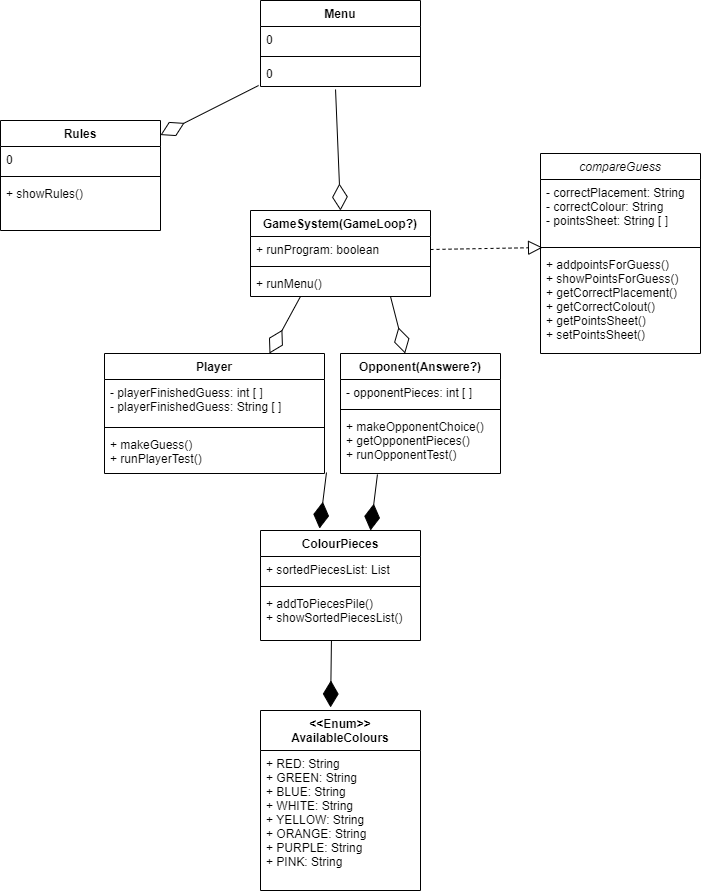
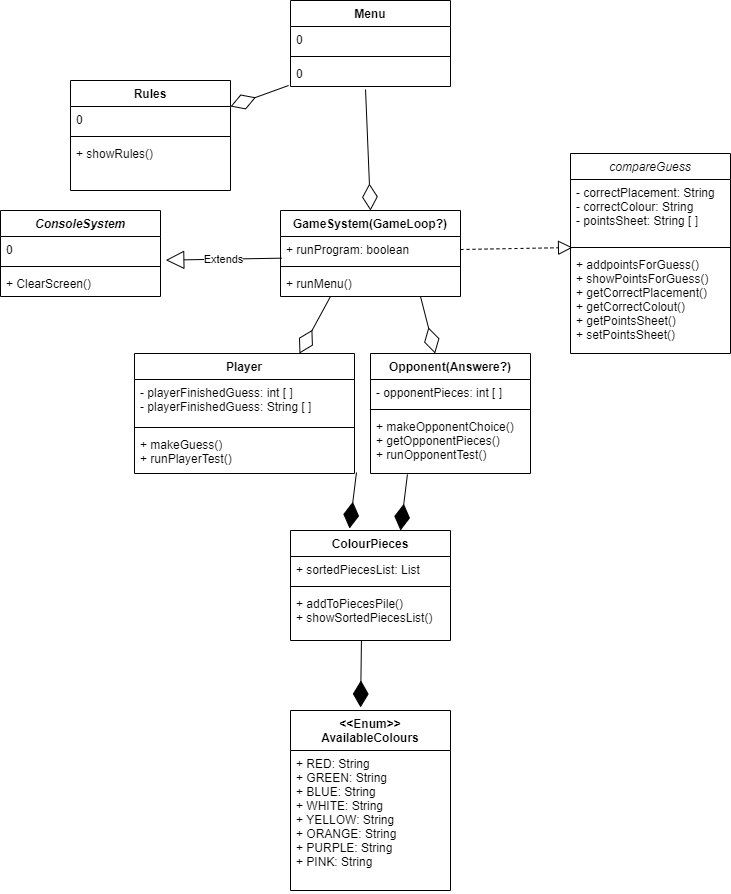
Done - V1.5
- Update UML next

diff --git a/src/mastermind/game/GameplayLoop.java b/src/mastermind/game/GameplayLoop.java
@@ -2,7 +2,7 @@ package mastermind.game;
 import java.util.LinkedList;
 import java.util.Scanner;
 
-public class GameplayLoop
+public class GameplayLoop extends ConsoleSystem
 {
     int roundCounter = 1;
     LinkedList<String> previousGuess = new LinkedList<>();
@@ -18,22 +18,21 @@ public class GameplayLoop
 
         while (compareGuess.runGameplay)
         {
-            System.out.println("----------------------------------------------------------------------------");
+            System.out.println("\n----------------------------------------------------------------------------");
             if (roundCounter > 1)
             {
-                System.out.println("\n                                Previous guesses");
+                System.out.println("\t\t\t\t\t\t\t\tMastermind board");
                 for (int i = 0; i<previousGuess.size(); i++)
                 {
-                    String result = String.format("%s\t|\t\t%s\t\t\t|\t%s","Result for round " + (i+1),previousGuess.get(i),previousPoints.get(i));
+                    String result = String.format("%s\t \t%s\t%s\t%s","Result for round " + (i+1),previousGuess.get(i),"",previousPoints.get(i));
                     System.out.println(result);
                 }
-                System.out.println("\n");
             }
             else
             {
-                System.out.println("No guesses yet - make your first guess!");
+                System.out.println("\t\t\t\t\t\t\t\tMastermind board");
             }
-            System.out.println("----------------------------------------------------------------------------");
+            System.out.println("----------------------------------------------------------------------------\n");
             System.out.println("Round " + roundCounter);
             player.makeGuess();
             player.ContinueWithGuess();
@@ -51,9 +50,9 @@ public class GameplayLoop
                         compareGuess.getPlayerSheetCopy().addLast(player.getCreatedPlayerGuess()[i]);
                     }
                     compareGuess.addPointsForGuess();
-                    compareGuess.showPointsForGuess();
-                    previousGuess.addLast(player.colourPieces.piecesPile.get(player.getCreatedPlayerGuess()[0]) + "," + player.colourPieces.piecesPile.get(player.getCreatedPlayerGuess()[1]) + "," + player.colourPieces.piecesPile.get(player.getCreatedPlayerGuess()[2]) + ","  + player.colourPieces.piecesPile.get(player.getCreatedPlayerGuess()[3]));
+                    previousGuess.addLast(player.colourPieces.boardPiecesPile.get(player.getCreatedPlayerGuess()[0]) + "," + player.colourPieces.boardPiecesPile.get(player.getCreatedPlayerGuess()[1]) + "," + player.colourPieces.boardPiecesPile.get(player.getCreatedPlayerGuess()[2]) + ","  + player.colourPieces.boardPiecesPile.get(player.getCreatedPlayerGuess()[3]));
                     previousPoints.addLast(compareGuess.getPointsSheet().toString());
+                    clearScreen();
                     thisRound = false;
 
                 } else if (makeThisGuess == 2)
@@ -79,7 +78,9 @@ public class GameplayLoop
                 }
                 compareGuess.getPointsSheet().clear();
             }
-                System.out.println("You won! It took you " + roundCounter + " rounds!");
+        System.out.println("---------------------------------------------\n");
+        System.out.println("YOU WON! It took you " + roundCounter + " rounds!");
+        System.out.println("\n---------------------------------------------");
 
         }
 

diff --git a/src/mastermind/game/Rules.java b/src/mastermind/game/Rules.java
@@ -9,15 +9,16 @@ public class Rules
     public void showTheRules()
     {
         System.out.println("\n");
-        System.out.println("-----Rules-----");
+        System.out.println("--------------------------------------------------Rules-------------------------------------------------");
         System.out.println("1. The Opponent will choose four colours from the pile and place them in their \"nest\"");
         System.out.println("2. The Opponent can choose the same colour more than once!");
-        System.out.println("3. For every round, the Player will make a guess containing four colours in the order that the Player thinks the Opponent has put them in their nest");
+        System.out.println("3. For every round, the Player will make a guess containing four colours in the order that the Player\n   thinks the Opponent has put them in their nest");
         System.out.println("4. After making the guess, the Player will receive feedback based on colour and placement of their guess");
-        System.out.println("5. The - symbol means that one of the pieces is of the right colour but placed in the wrong spot");
-        System.out.println("   The = symbol means that one of the pieces is of the right colour and placed in the right spot");
-        System.out.println("6. Based on  this information, the Player will make a new guess until the guess matches the Opponents nest");
-        System.out.println("7. The game will end and the Player is given a score of how many rounds it took to complete the game");
+        System.out.println("5. This feedback can be seen in the Mastermind board window");
+        System.out.println("6. The I symbol means that one of the pieces is of the right colour but placed in the wrong spot");
+        System.out.println("   The X symbol means that one of the pieces is of the right colour and placed in the right spot");
+        System.out.println("7. Based on  this information, the Player will make a new guess until the guess matches the Opponents nest");
+        System.out.println("8. The game will end and the Player is given a score of how many rounds it took to complete the game");
         System.out.println("\n");
         System.out.println("To exit the Rules menu - type EXIT");
     }

diff --git a/src/mastermind/game/Player.java b/src/mastermind/game/Player.java
@@ -12,16 +12,17 @@ public class Player
     public void makeGuess()
     {
         colourPieces.addToPiecesPile();
+        colourPieces.fixCleanBoardList();
         colourPieces.showSortedPiecesList();
         for (int i = 0; i < createdPlayerGuess.length; i++)
         {
-            String result = String.format("%s %s\t\t%s","Take a guess att nr",(i + 1)," | ");
+            String result = String.format("%s %s\t\t\t%s","Take a guess att nr",(i + 1)," | ");
             System.out.print(result);
             for (int j = 0; j<createdPlayerGuess.length; j++)
                 if (createdPlayerGuess[j] == 0)
                 {
 
-                    System.out.print("X");
+                    System.out.print("-");
                     System.out.print(" | ");
                 } else
                 {
@@ -36,13 +37,13 @@ public class Player
 
     public void ContinueWithGuess()
     {
-        System.out.println("\n");
+        System.out.print("Make this guess? 1: YES 2: NO\t |");
         for (int j = 0; j<createdPlayerGuess.length; j++)
         {
             System.out.print(colourPieces.piecesPile.get(createdPlayerGuess[j]));
             System.out.print(" | ");
         }
-        System.out.println("\nAre you sure this is your next guess? | 1: YES | 2: NO |");
+
     }
 
     public int[] getCreatedPlayerGuess()

diff --git a/src/mastermind/game/CompareGuess.java b/src/mastermind/game/CompareGuess.java
@@ -3,11 +3,8 @@ import java.util.LinkedList;
 
 public class CompareGuess
 {
-
-    //Point system rules
-    //From the user input, a point system is used (Correct Colour or Correct Placement)
-    private String correctColour = " - ";
-    private String correctPlacement = " = ";
+    private String correctColour = "I";
+    private String correctPlacement = "X";
     boolean runGameplay = true;
     private LinkedList<String> pointsSheet = new LinkedList<>();
     private LinkedList<Integer> opponentSheetCopy = new LinkedList<>();
@@ -52,21 +49,6 @@ public class CompareGuess
                     }
                 }
             }
-        }
-    }
-
-    //Scrambles the points in the pointsSheet and shows it to the player
-    public void showPointsForGuess()
-    {
-        /*
-        System.out.println("Opponent: " + opponentSheetCopy.toString());
-        System.out.println("Player: " + playerSheetCopy.toString());
-        System.out.println("Points: " + pointsSheet.toString());*/
-        System.out.println("This gives you following result: " + pointsSheet.toString());
-        System.out.println("\n");
-        if (opponentSheetCopy.equals(playerSheetCopy))
-        {
-            runGameplay = false;
         }
     }
 

diff --git a/src/mastermind/game/ColourPieces.java b/src/mastermind/game/ColourPieces.java
@@ -1,11 +1,13 @@
 package mastermind.game;
 import java.util.HashMap;
+import java.util.LinkedList;
 import java.util.Map;
 
 
 class ColourPieces
 {
     HashMap<Integer,String> piecesPile = new HashMap<>();
+    HashMap<Integer,String> boardPiecesPile = new HashMap<>();
 
     public void addToPiecesPile()
     {
@@ -13,6 +15,18 @@ class ColourPieces
         {
             piecesPile.put((i+1), EnumAvailableColours.values()[i].toString());
         }
+    }
+
+    public void fixCleanBoardList()
+    {
+        boardPiecesPile.put(1,"  RED  ");
+        boardPiecesPile.put(2," GREEN ");
+        boardPiecesPile.put(3,"  BLUE ");
+        boardPiecesPile.put(4," WHITE ");
+        boardPiecesPile.put(5," YELLOW");
+        boardPiecesPile.put(6," ORANGE");
+        boardPiecesPile.put(7," PURPLE");
+        boardPiecesPile.put(8,"  PINK ");
     }
 
 
@@ -26,4 +40,5 @@ class ColourPieces
         }
         System.out.println("\n");
     }
+
 }

diff --git a/src/mastermind/game/ConsoleSystem.java b/src/mastermind/game/ConsoleSystem.java
@@ -1,0 +1,11 @@
+package mastermind.game;
+
+public abstract class ConsoleSystem
+{
+    public static void clearScreen()
+    {
+        System.out.print("\033[H\033[2J");
+        System.out.flush();
+    }
+
+}

diff --git a/src/mastermind/game/EnumAvailableColours.java b/src/mastermind/game/EnumAvailableColours.java
@@ -4,4 +4,5 @@ public enum EnumAvailableColours
 {
     //Colours available for use in the game
     RED, GREEN, BLUE, WHITE, YELLOW, ORANGE, PURPLE, PINK
+
 }
